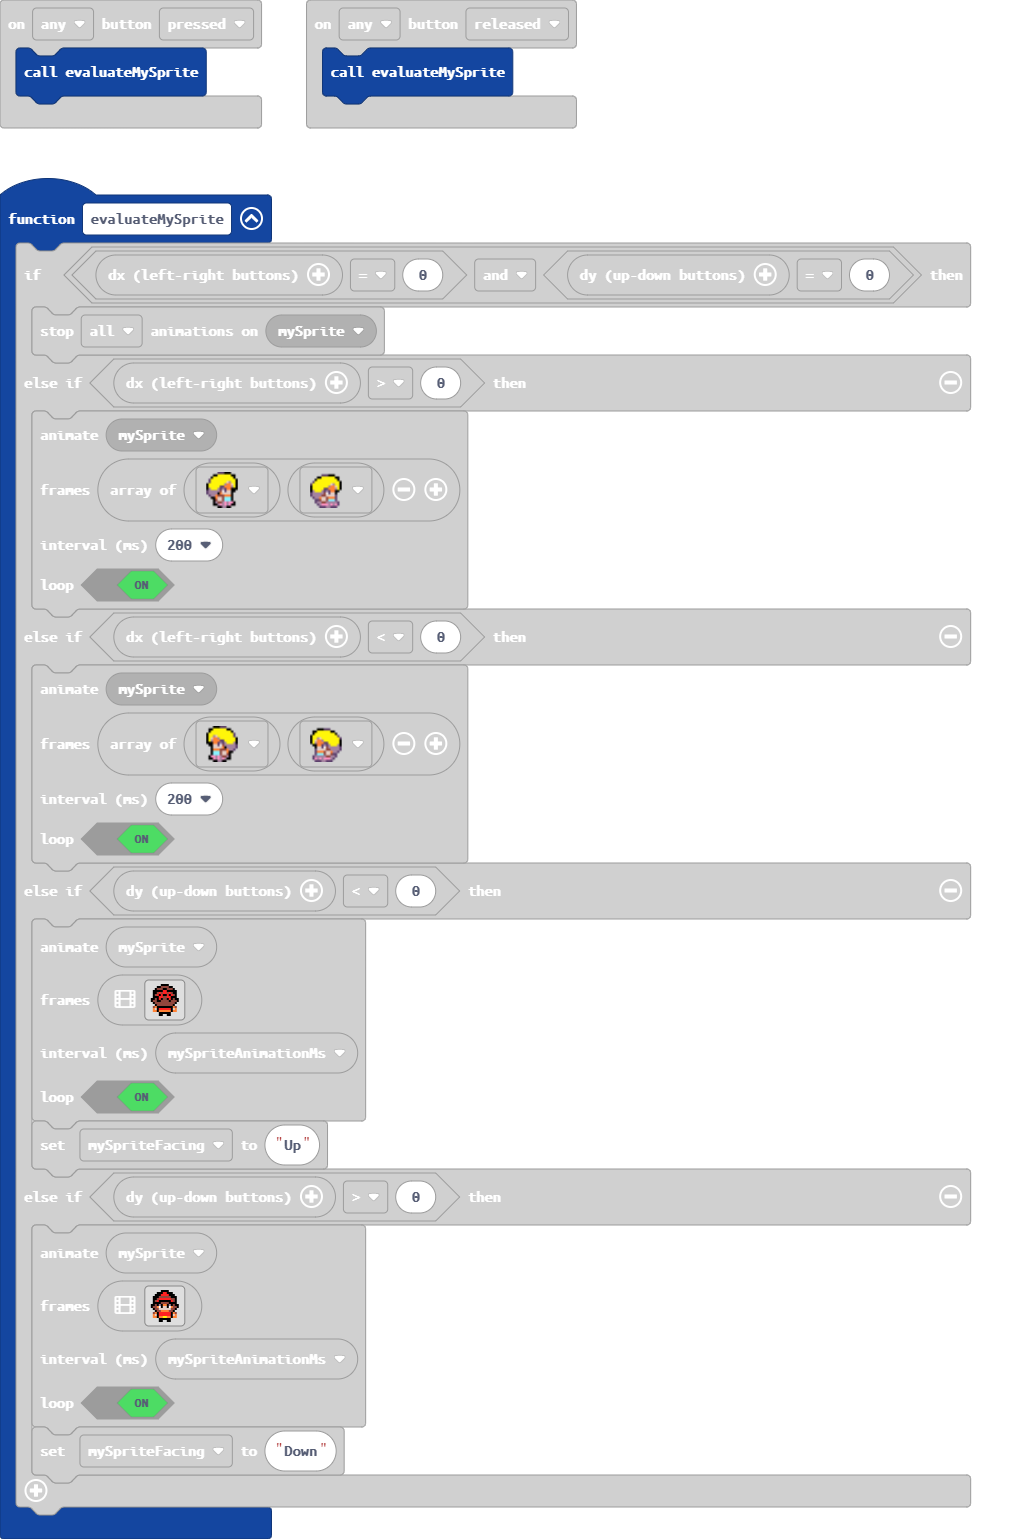
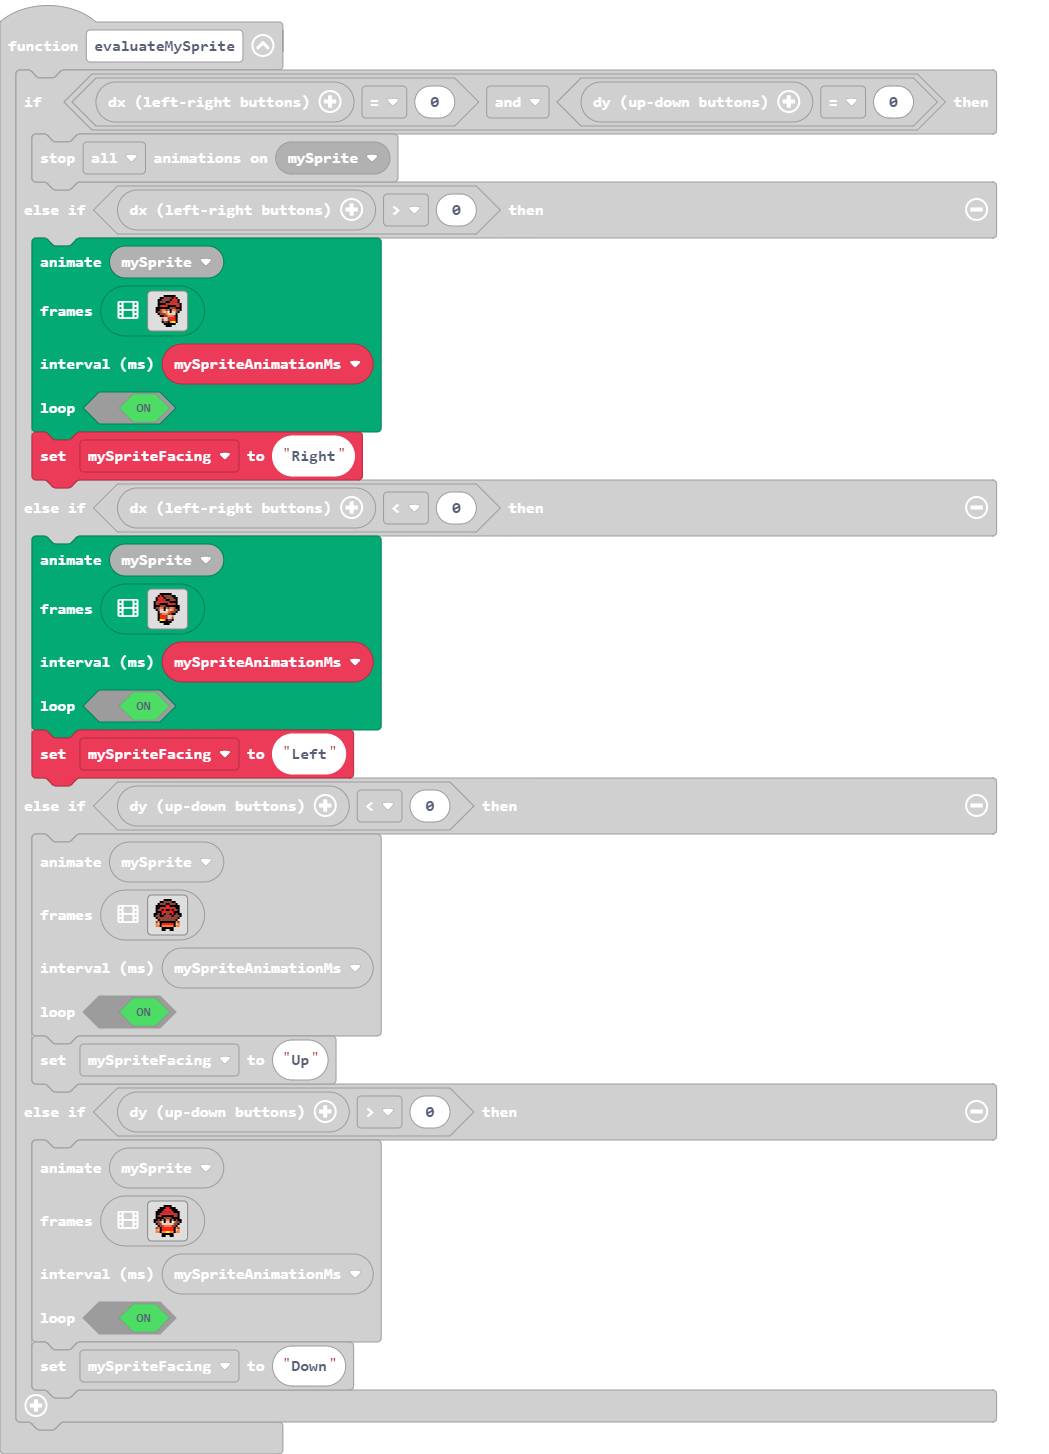
Updated Sprite movement animation

diff --git a/main.ts b/main.ts
@@ -20,17 +20,155 @@ function evaluateMySprite () {
     } else if (controller.dx() > 0) {
         animation.runImageAnimation(
         mySprite,
-        [sprites.builtin.villager4WalkRight1, sprites.builtin.villager4WalkRight2],
-        200,
+        [img`
+            . . . . . . f f f f f f . . . . 
+            . . . . f f e e e e f 2 f . . . 
+            . . . f f e e e e f 2 2 2 f . . 
+            . . . f e e e f f e e e e f . . 
+            . . . f f f f e e 2 2 2 2 e f . 
+            . . . f e 2 2 2 f f f f e 2 f . 
+            . . f f f f f f f e e e f f f . 
+            . . f f e 4 4 e b f 4 4 e e f . 
+            . . f e e 4 d 4 1 f d d e f . . 
+            . . . f e e e 4 d d d d f . . . 
+            . . . . f f e e 4 4 4 e f . . . 
+            . . . . . 4 d d e 2 2 2 f . . . 
+            . . . . . e d d e 2 2 2 f . . . 
+            . . . . . f e e f 4 5 5 f . . . 
+            . . . . . . f f f f f f . . . . 
+            . . . . . . . f f f . . . . . . 
+            `,img`
+            . . . . . . . . . . . . . . . . 
+            . . . . . . f f f f f f . . . . 
+            . . . . f f e e e e f 2 f . . . 
+            . . . f f e e e e f 2 2 2 f . . 
+            . . . f e e e f f e e e e f . . 
+            . . . f f f f e e 2 2 2 2 e f . 
+            . . . f e 2 2 2 f f f f e 2 f . 
+            . . f f f f f f f e e e f f f . 
+            . . f f e 4 4 e b f 4 4 e e f . 
+            . . f e e 4 d 4 1 f d d e f . . 
+            . . . f e e e e e d d d f . . . 
+            . . . . . f 4 d d e 4 e f . . . 
+            . . . . . f e d d e 2 2 f . . . 
+            . . . . f f f e e f 5 5 f f . . 
+            . . . . f f f f f f f f f f . . 
+            . . . . . f f . . . f f f . . . 
+            `,img`
+            . . . . . . f f f f f f . . . . 
+            . . . . f f e e e e f 2 f . . . 
+            . . . f f e e e e f 2 2 2 f . . 
+            . . . f e e e f f e e e e f . . 
+            . . . f f f f e e 2 2 2 2 e f . 
+            . . . f e 2 2 2 f f f f e 2 f . 
+            . . f f f f f f f e e e f f f . 
+            . . f f e 4 4 e b f 4 4 e e f . 
+            . . f e e 4 d 4 1 f d d e f . . 
+            . . . f e e e 4 d d d d f . . . 
+            . . . . f f e e 4 4 4 e f . . . 
+            . . . . . 4 d d e 2 2 2 f . . . 
+            . . . . . e d d e 2 2 2 f . . . 
+            . . . . . f e e f 4 5 5 f . . . 
+            . . . . . . f f f f f f . . . . 
+            . . . . . . . f f f . . . . . . 
+            `,img`
+            . . . . . . . . . . . . . . . . 
+            . . . . . . f f f f f f . . . . 
+            . . . . f f e e e e f 2 f . . . 
+            . . . f f e e e e f 2 2 2 f . . 
+            . . . f e e e f f e e e e f . . 
+            . . . f f f f e e 2 2 2 2 e f . 
+            . . . f e 2 2 2 f f f f e 2 f . 
+            . . f f f f f f f e e e f f f . 
+            . . f f e 4 4 e b f 4 4 e e f . 
+            . . f e e 4 d 4 1 f d d e f . . 
+            . . . f e e e 4 d d d d f . . . 
+            . . . . 4 d d e 4 4 4 e f . . . 
+            . . . . e d d e 2 2 2 2 f . . . 
+            . . . . f e e f 4 4 5 5 f f . . 
+            . . . . f f f f f f f f f f . . 
+            . . . . . f f . . . f f f . . . 
+            `],
+        mySpriteAnimationMs,
         true
         )
+        mySpriteFacing = "Right"
     } else if (controller.dx() < 0) {
         animation.runImageAnimation(
         mySprite,
-        [sprites.builtin.villager4WalkLeft1, sprites.builtin.villager4WalkLeft2],
-        200,
+        [img`
+            . . . . f f f f f f . . . . . . 
+            . . . f 2 f e e e e f f . . . . 
+            . . f 2 2 2 f e e e e f f . . . 
+            . . f e e e e f f e e e f . . . 
+            . f e 2 2 2 2 e e f f f f . . . 
+            . f 2 e f f f f 2 2 2 e f . . . 
+            . f f f e e e f f f f f f f . . 
+            . f e e 4 4 f b e 4 4 e f f . . 
+            . . f e d d f 1 4 d 4 e e f . . 
+            . . . f d d d d 4 e e e f . . . 
+            . . . f e 4 4 4 e e f f . . . . 
+            . . . f 2 2 2 e d d 4 . . . . . 
+            . . . f 2 2 2 e d d e . . . . . 
+            . . . f 5 5 4 f e e f . . . . . 
+            . . . . f f f f f f . . . . . . 
+            . . . . . . f f f . . . . . . . 
+            `,img`
+            . . . . . . . . . . . . . . . . 
+            . . . . f f f f f f . . . . . . 
+            . . . f 2 f e e e e f f . . . . 
+            . . f 2 2 2 f e e e e f f . . . 
+            . . f e e e e f f e e e f . . . 
+            . f e 2 2 2 2 e e f f f f . . . 
+            . f 2 e f f f f 2 2 2 e f . . . 
+            . f f f e e e f f f f f f f . . 
+            . f e e 4 4 f b e 4 4 e f f . . 
+            . . f e d d f 1 4 d 4 e e f . . 
+            . . . f d d d e e e e e f . . . 
+            . . . f e 4 e d d 4 f . . . . . 
+            . . . f 2 2 e d d e f . . . . . 
+            . . f f 5 5 f e e f f f . . . . 
+            . . f f f f f f f f f f . . . . 
+            . . . f f f . . . f f . . . . . 
+            `,img`
+            . . . . f f f f f f . . . . . . 
+            . . . f 2 f e e e e f f . . . . 
+            . . f 2 2 2 f e e e e f f . . . 
+            . . f e e e e f f e e e f . . . 
+            . f e 2 2 2 2 e e f f f f . . . 
+            . f 2 e f f f f 2 2 2 e f . . . 
+            . f f f e e e f f f f f f f . . 
+            . f e e 4 4 f b e 4 4 e f f . . 
+            . . f e d d f 1 4 d 4 e e f . . 
+            . . . f d d d d 4 e e e f . . . 
+            . . . f e 4 4 4 e e f f . . . . 
+            . . . f 2 2 2 e d d 4 . . . . . 
+            . . . f 2 2 2 e d d e . . . . . 
+            . . . f 5 5 4 f e e f . . . . . 
+            . . . . f f f f f f . . . . . . 
+            . . . . . . f f f . . . . . . . 
+            `,img`
+            . . . . . . . . . . . . . . . . 
+            . . . . f f f f f f . . . . . . 
+            . . . f 2 f e e e e f f . . . . 
+            . . f 2 2 2 f e e e e f f . . . 
+            . . f e e e e f f e e e f . . . 
+            . f e 2 2 2 2 e e f f f f . . . 
+            . f 2 e f f f f 2 2 2 e f . . . 
+            . f f f e e e f f f f f f f . . 
+            . f e e 4 4 f b e 4 4 e f f . . 
+            . . f e d d f 1 4 d 4 e e f . . 
+            . . . f d d d d 4 e e e f . . . 
+            . . . f e 4 4 4 e d d 4 . . . . 
+            . . . f 2 2 2 2 e d d e . . . . 
+            . . f f 5 5 4 4 f e e f . . . . 
+            . . f f f f f f f f f f . . . . 
+            . . . f f f . . . f f . . . . . 
+            `],
+        mySpriteAnimationMs,
         true
         )
+        mySpriteFacing = "Left"
     } else if (controller.dy() < 0) {
         animation.runImageAnimation(
         mySprite,
